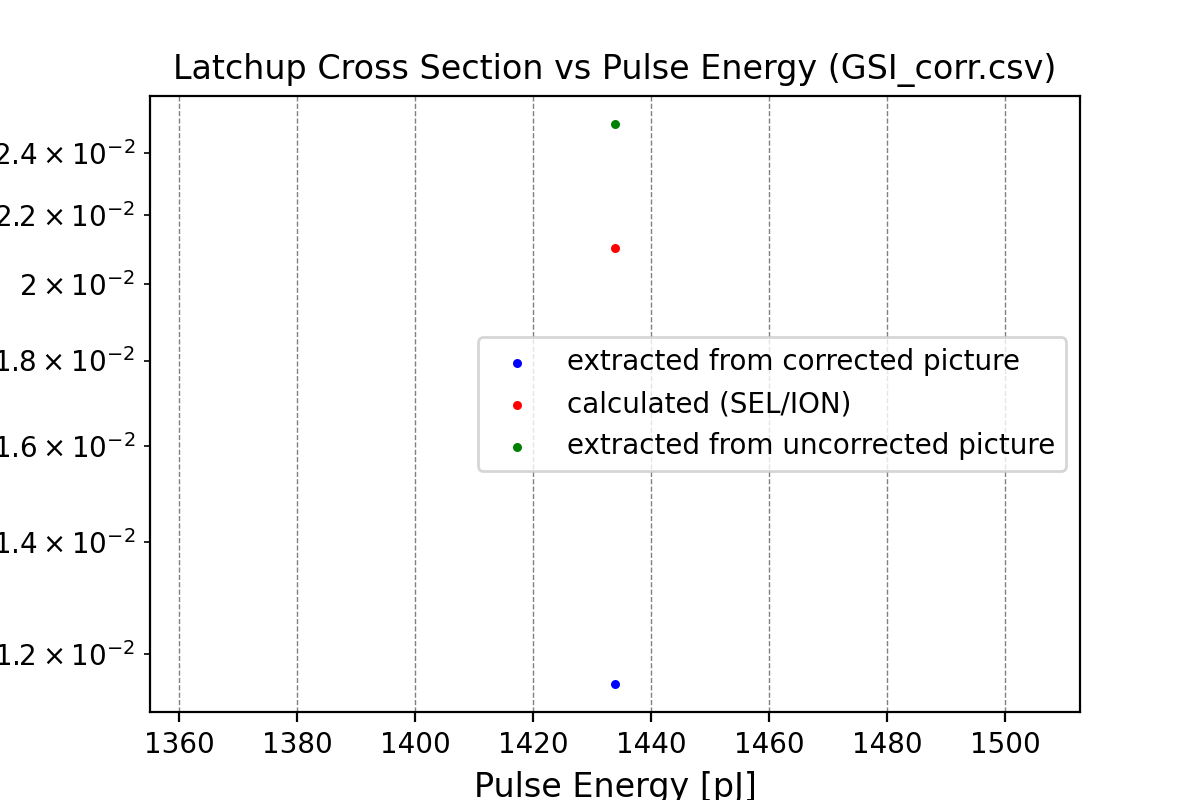
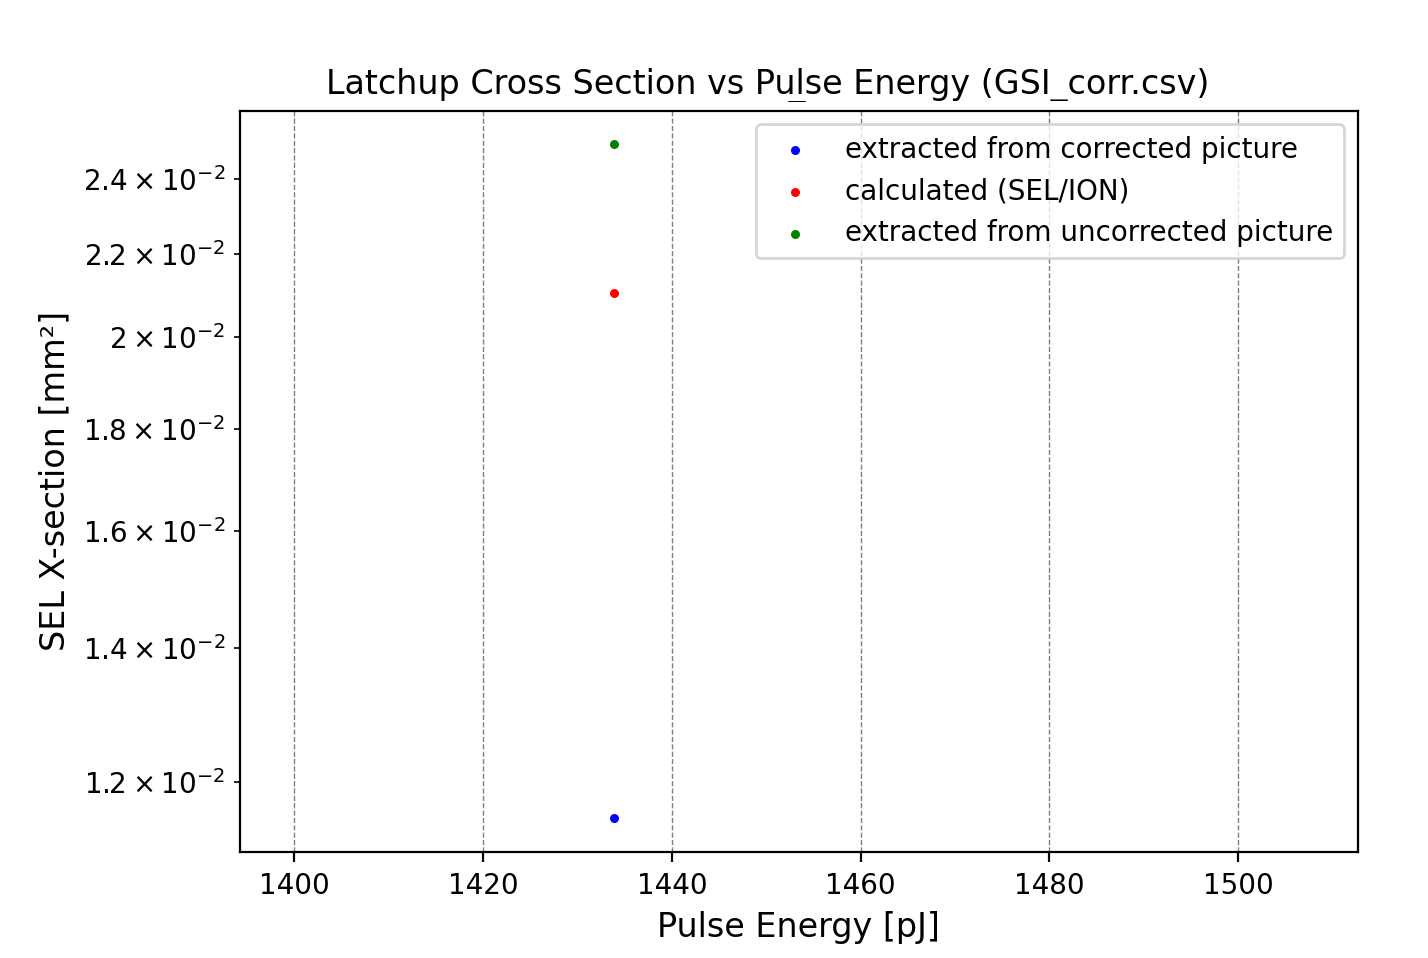
recreated GSI cross section so that unit on y-axis can be seen

diff --git a/LUNTE/panos/cross_section_multiintensity.py b/LUNTE/panos/cross_section_multiintensity.py
@@ -43,7 +43,7 @@ for csv_file in csv_files:
         #	cross_section = cross_section[::int(len(cross_section)/100)]
 
         # plot the data
-        fig1, ax1 = plt.subplots(figsize=(6, 4), dpi=200)
+        fig1, ax1 = plt.subplots(figsize=(10, 4), dpi=200)
 
 
 
